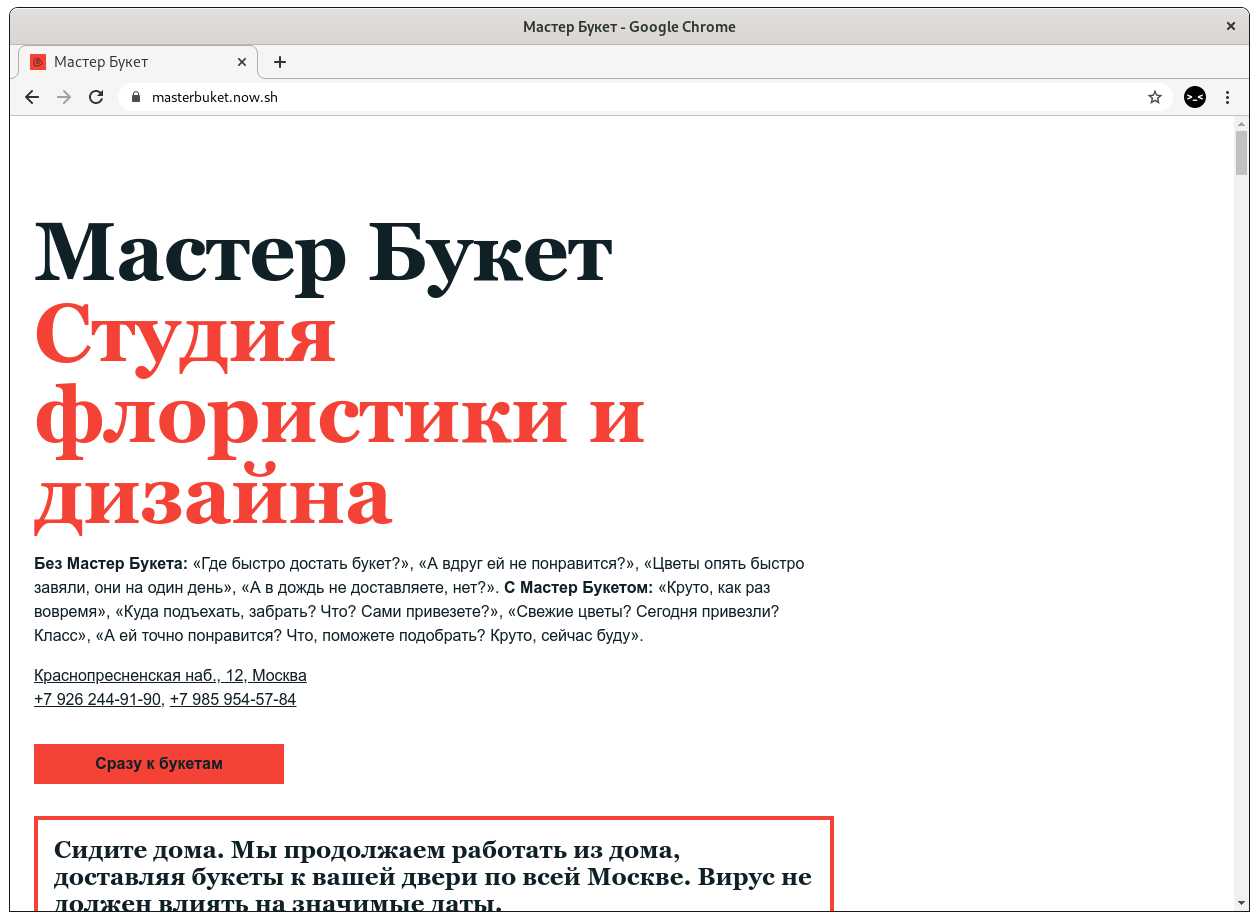
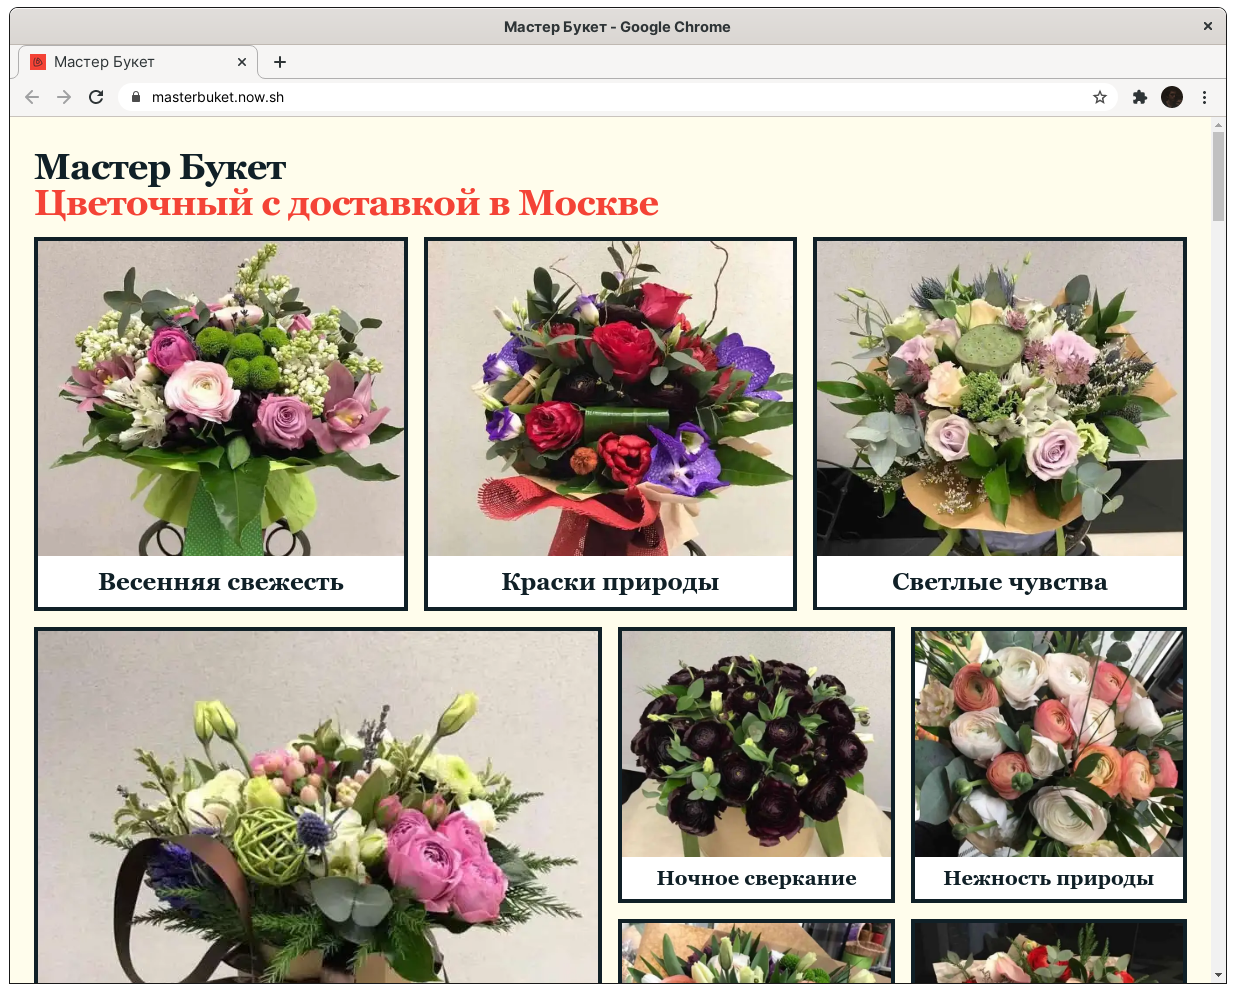
Work on project's pages

diff --git a/src/styles/index.scss b/src/styles/index.scss
@@ -200,22 +200,20 @@ main {
       margin-bottom: 0;
     }
   }
-  section.main__sect--text article, &.main--post, &.main--portfolio, &.main--notes {
-    a {
-      border-bottom: 1px solid var(--accent-blue-25);
+  a:not(.card__link) {
+    border-bottom: 1px solid var(--accent-blue-25);
 
-      &:visited {
-        color: var(--accent-purple);
+    &:visited {
+      color: var(--accent-purple);
 
-        border-bottom: 1px solid var(--accent-purple-25);
-      }
+      border-bottom: 1px solid var(--accent-purple-25);
+    }
 
-      &:hover,
-      &:focus {
-        color: var(--accent-red);
+    &:hover,
+    &:focus {
+      color: var(--accent-red);
 
-        border-bottom: 1px solid var(--accent-red-25);
-      }
+      border-bottom: 1px solid var(--accent-red-25);
     }
   }
   a.a--secondary {

diff --git a/src/styles/article.scss b/src/styles/article.scss
@@ -4,6 +4,18 @@
   margin-bottom: var(--main-padding);
 }
 
+.grid {
+  display: flex;
+  flex-wrap: wrap;
+  gap: var(--third-padding);
+
+  article {
+    flex: calc((100% - 2 * var(--third-padding))/3);
+    flex-grow: initial;
+    margin-bottom: 0;
+  }
+}
+
 span.card__span {
   display: block;
   margin-left: -2px;

diff --git a/src/projects/masterbuket.md b/src/projects/masterbuket.md
@@ -2,23 +2,19 @@
 title: Мастер Букет
 description: Сайт и всякие штуки для цветочной студии Мастер Букет
 date: 2018-08-30
-image: /images/preview/project-masterbuket.jpg
+image: /images/preview/project-masterbuket.png
 projectURL: masterbuket.now.sh
 ---
 
 Мастер Букет — Московская цветочная студия, которая делает букеты, оформляет подарочные упаковки и украшает банкетные залы.
 
+На сайте сразу видны букеты. Они расположены в сетке и разные по размеру. Размер задаётся классом и выбирается вручную. Можно поместить четыре, три, два букета в ряд или занять всё одним большим.
+
 ![Страница, которую видит пользователь сразу после посещения сайта](/images/masterbuket-main.png)
 
-Большой заголовок и текст, который сразу показывает ситуации, в которых Мастер Букет спасает. Адрес наверху и контакты, чтоб долго не искать. После идет короткий список из лучших букетов сезона и текст о компании. Чтоб не мучать тех, кто пришел за товаром, есть кнопка «Сразу к букетам», которая пролистает сайт к списку.
-
-На сайте есть список некоторых знаменитых клиентов — виден масштаб работы — и отзывы. Это конкретика: товар и отзывы — клиент видит цветы и видит, что другим людям цветы тоже нравятся.
+После списка букетов компания рассказывает о себе: чем и как занимаются, почему стоит выбрать. На сайте есть список некоторых знаменитых клиентов — виден масштаб работы — и отзывы. Это конкретика: товар и отзывы — клиент видит цветы и видит, что другим людям цветы тоже нравятся.
 
 ![Отзывы клиентов](/images/masterbuket-reviews.png)
-
-А дальше список из букетов по три в ряд, чтоб картинки не были мелкими. На больших экранах отступы по бокам увеличиваются.
-
-![Список букетов на сайте](/images/masterbuket-bouquets.png)
 
 Используется шрифт Georgia для крупного текста и стандартный без засечек для длинного мелкого текста. Georgia есть везде, поэтому не тратится время на загрузку шрифтов.
 

diff --git a/src/projects/secondschool-website.md b/src/projects/secondschool-website.md
@@ -6,27 +6,10 @@ image: /images/preview/project-secondschool.png
 projectURL: secondschool.now.sh
 ---
 
-Сайт второй школы — первый сайт среди всех школ Абхазии. Вторая школа — это
-центральная школа страны, которая находится в столице — в Сухуме. Школа работает
-с 1870 года.
+Вторая школа — центральная школа страны, основана в 1870 году. Сайт второй школы — первый сайт школы в Абхазии.
 
-![Главная страница сайта](/images/secondschool-main.png)
+Новый сайт — редизайн старого официального. Вся основная информация выделена крупным шрифтом, сразу видны ссылки на страницы, которые чаще всего нужны.
 
-Этот сайт — созданный заново аналог старого сайта. Сайт рассказывает про школу,
-ее историю и имеет пополняющиеся разделы для учеников и родителей.
+---
 
-Задача — переделать старый сайт, создать дизайн, который напоминает о здании
-школы, написать текст, который проходится по главным вопросам родителей.
-
-![Шапка сайта со всеми важными ссылками](/images/secondschool-header.jpg)
-
-Дизайн сделан по сетке из двух горизонтальных клеток. В шапке находится вся
-нужная информация: ссылки на разделы для учеников, родителей и об истории,
-номер телефона и адрес с ссылкой на карту. Блоки на сайте окружены рамками —
-ассоциация с цветами здания школы и рамками у окон.
-
-Текст разделен на смысловые куски, для каждого сделан отдельный блок с фоном.
-Смысловой блок содержит хештег для краткого информирования, заголовок, текст и
-изображение с ссылкой на материал, если есть.
-
-Я придумал проект, написал код и текст, придумал дизайн и редизайн.
+***Шрифт:*** [PT Root UI](https://www.paratype.ru/fonts/pt/pt-root-ui).

diff --git a/src/projects/postvel-website.md b/src/projects/postvel-website.md
@@ -2,7 +2,7 @@
 title: Сайт Пост Величины
 description: Сайт с постоянными величинами из математики, физики и химии, чтоб всегда было, где подглядеть
 date: 2018-10-05
-image: /images/preview/project-postvel.jpg
+image: /images/preview/project-postvel.png
 projectURL: postvel.now.sh
 ---
 
@@ -23,8 +23,6 @@ _Редизайн и перестройка проведены осенью-зи
 - лантаноиды и актиноиды находятся в отдельных таблицах, чтоб не забивать основную.
 
 ![Темная тема Пост Величин](/images/postvel-dark.png)
-
-![Виды таблиц](/images/postvel-table-variations.png)
 
 ## Техническая часть
 
@@ -105,5 +103,4 @@ section.main__math#math
 
 ---
 
-**_Шрифт:_** [PT Root UI](https://www.paratype.ru/fonts/pt/pt-root-ui).\
-**_Материалы взяты из интернета._**
+**_Шрифт:_** [PT Root UI](https://www.paratype.ru/fonts/pt/pt-root-ui).

diff --git a/src/projects/cyxym-website.md b/src/projects/cyxym-website.md
@@ -1,8 +1,8 @@
 ---
-title: Сайт CYXYM
+title: Сайт Сухума
 description: "Сайт города Сухум, где важное — контент"
 date: 2018-04-07
-image: /images/preview/project-cyxym.jpg
+image: /images/preview/project-cyxym.png
 projectURL: cyxym.now.sh
 ---
 
@@ -31,9 +31,7 @@ projectURL: cyxym.now.sh
 
 ---
 
-***Руководитель проекта:*** Давид Кистаури.\
-***Разработчик:*** Давид Кистаури.\
-***Дизайнер:*** Давид Кистаури.\
+***Руководитель проекта, разработчик и дизайнер:*** Давид Кистаури.\
 ***Историк:*** Батал Киут.\
 ***Креативный директор:*** Леонид Гадлия.
 

diff --git a/src/blog/all/masterbuket-2.md b/src/blog/all/masterbuket-2.md
@@ -4,7 +4,7 @@ description: "Что нового у Мастер Букета: список, п
 date: 2019-07-31
 image: /images/preview/masterbuket-2.jpg
 category: programming
-tags: ["веб", "мастер букет"]
+tags: ["веб", "мастер букет", "проекты"]
 ---
 
 Сперва я расскажу про историю создания и развития сайта Мастер Букета до нынешнего времени:
